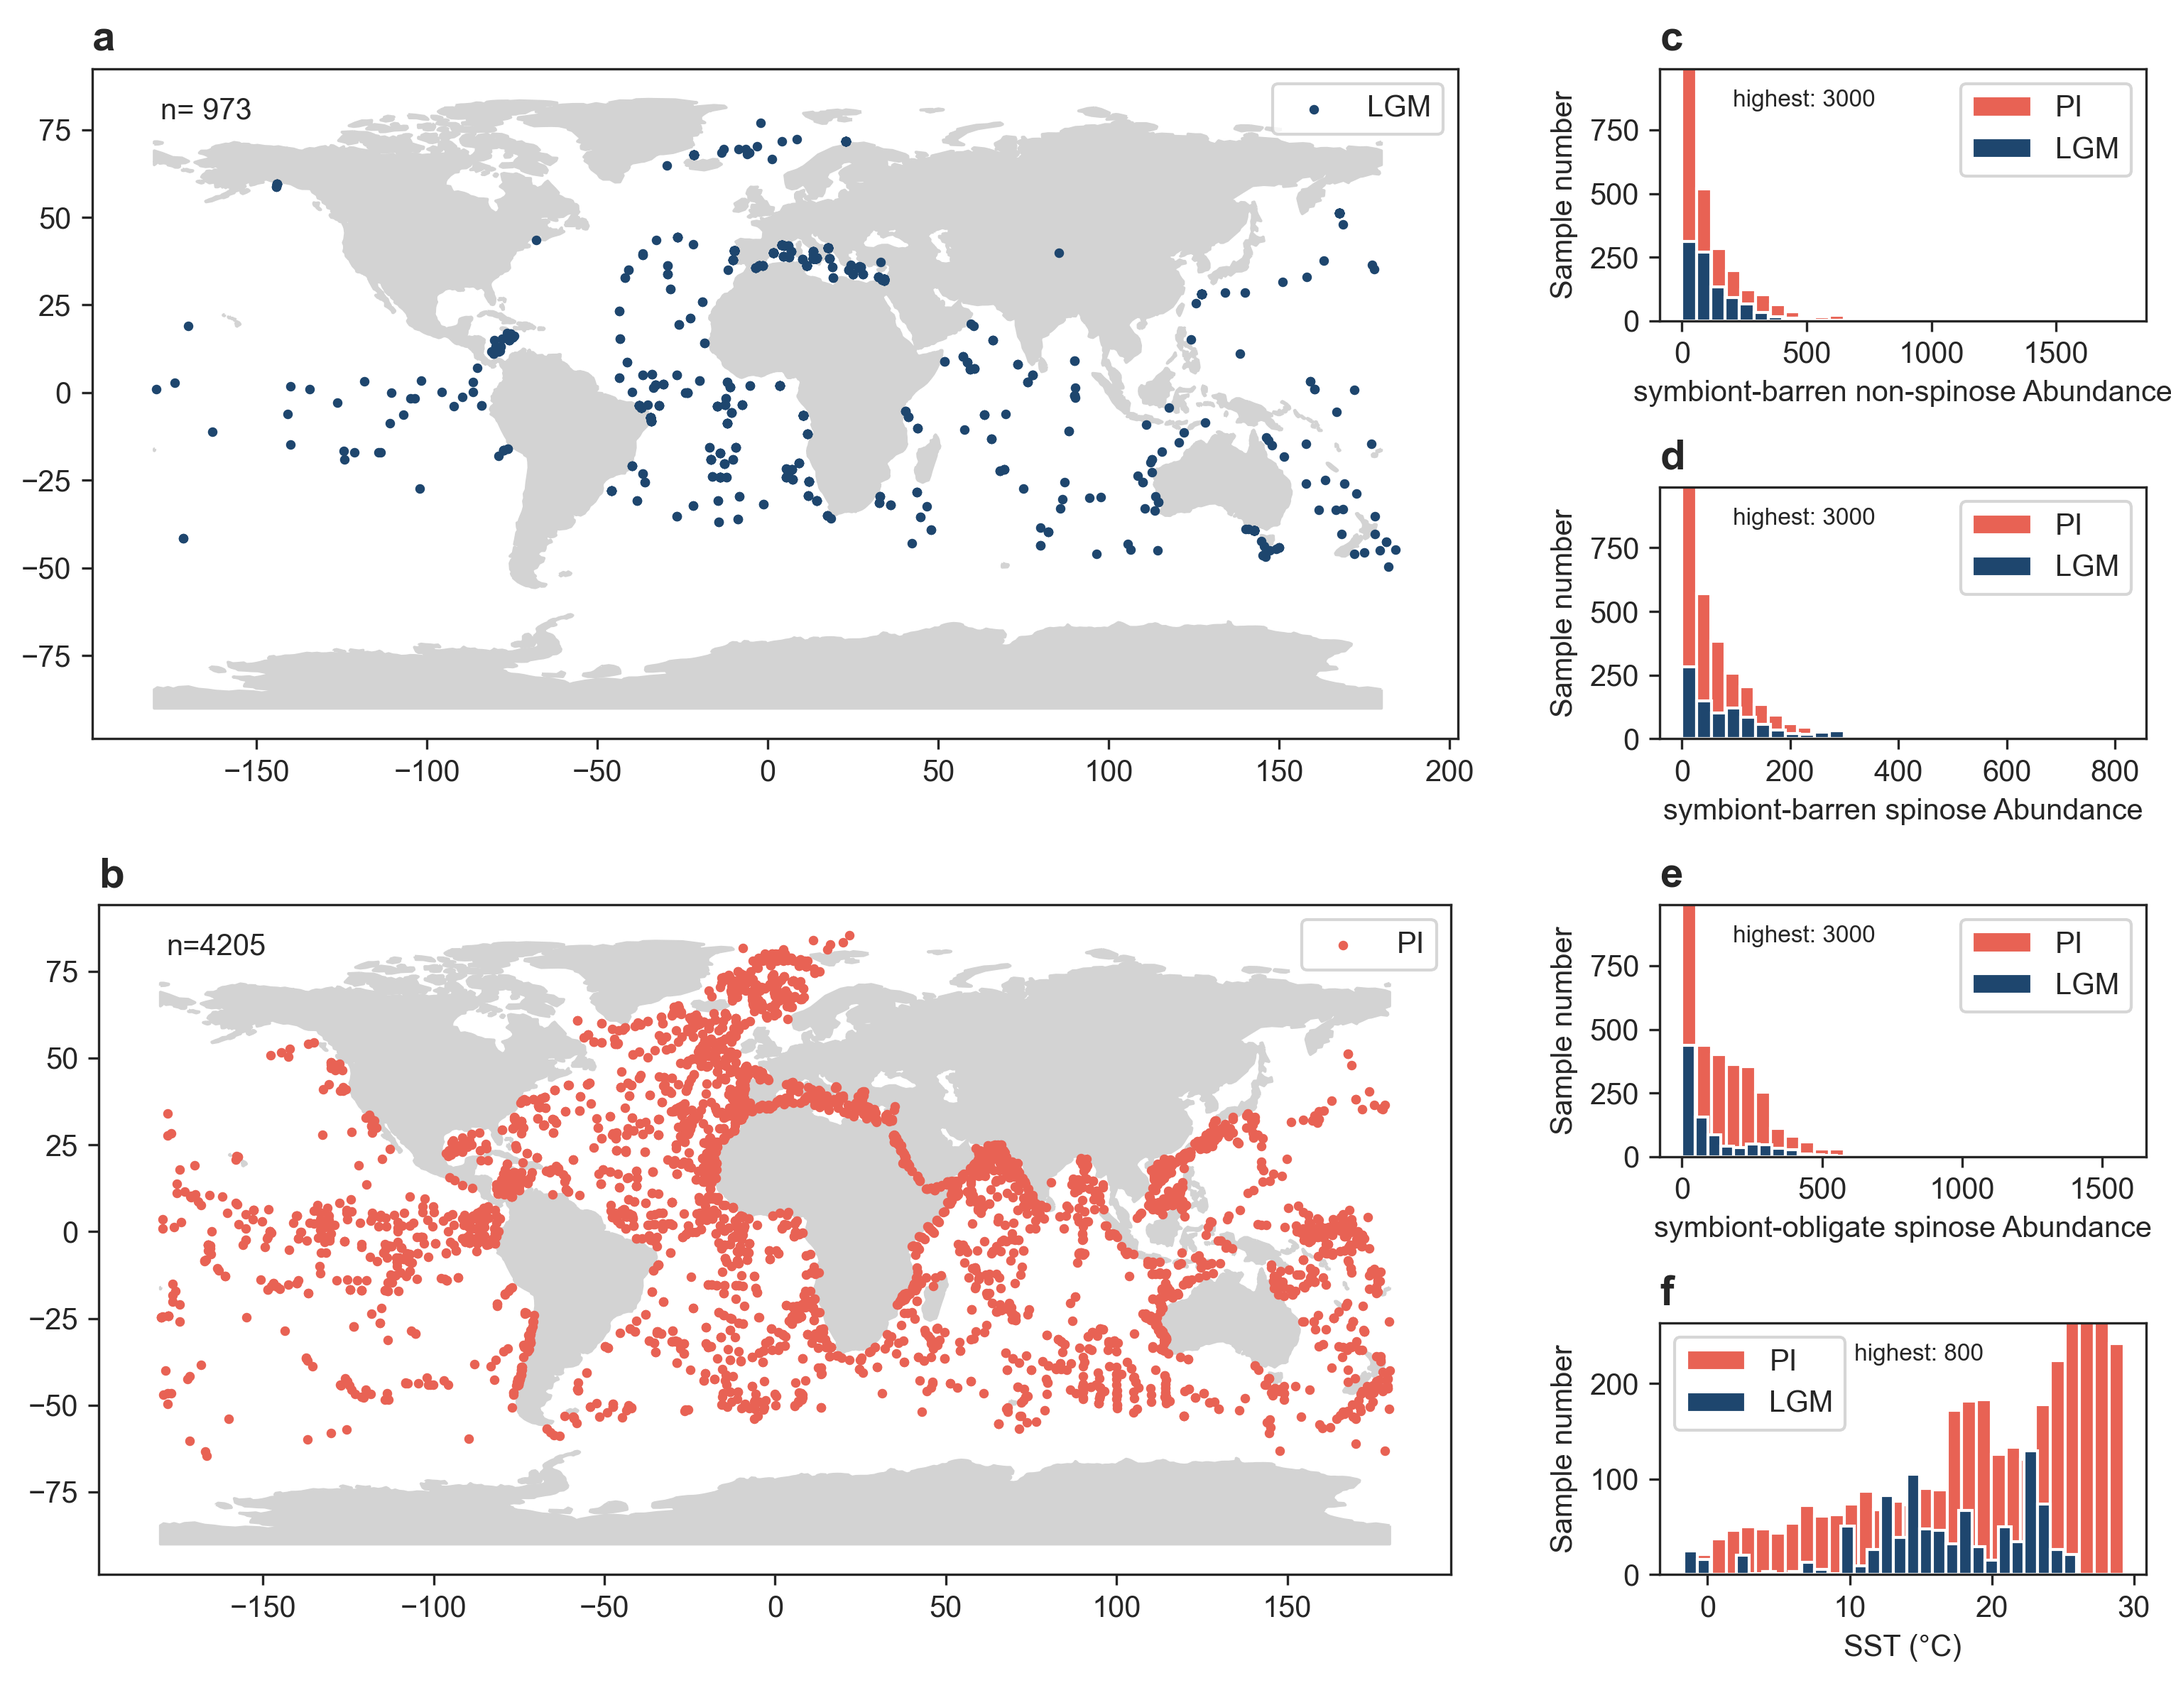
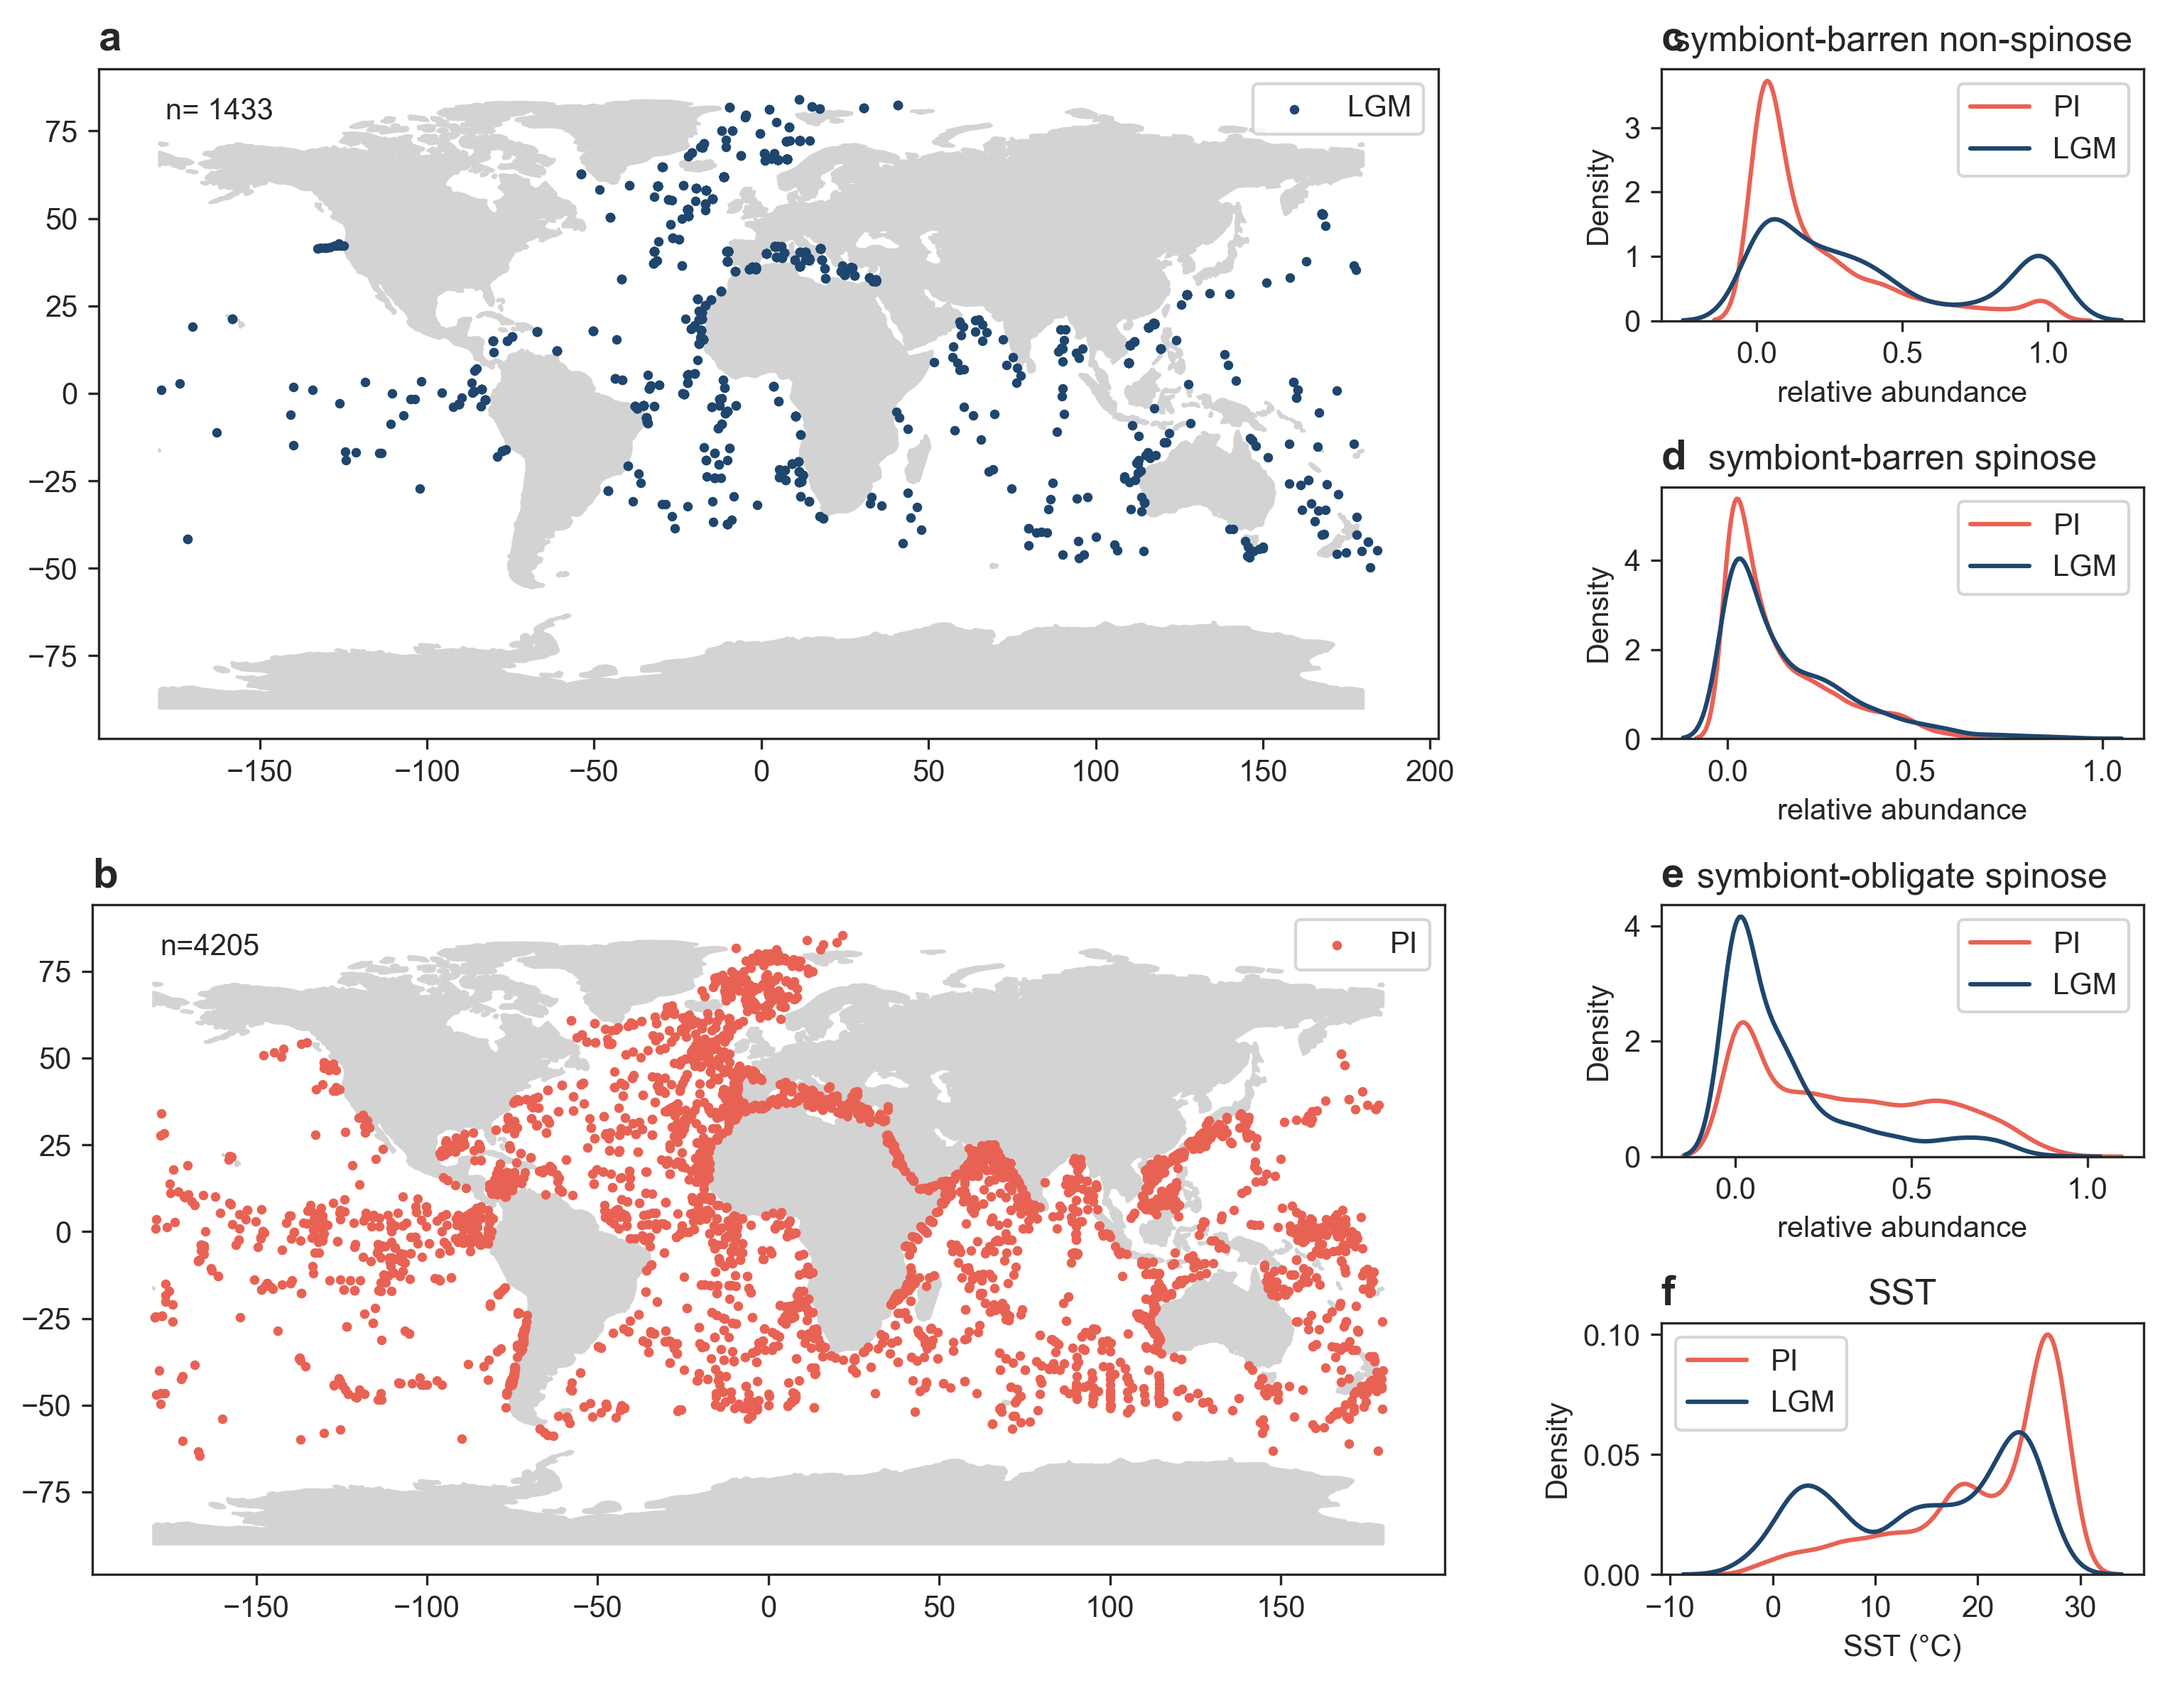
update sample_effort: just margo data

diff --git a/code/sample_efforts.py b/code/sample_efforts.py
@@ -11,11 +11,11 @@ def pd_to_gpd(data):
     gdf = gpd.GeoDataFrame(data, geometry=geometry, crs="EPSG:4326")
     return gdf
 
-
 def main():
     "plot sample number over 1 degree bin (x axis)"
-    pi = pd.read_csv("tidy/forcens_fg_a_wsst.csv")
-    lgm = pd.read_csv("tidy/lgm_fg_a_wsst.csv")
+    pi = pd.read_csv("tidy/forcens_fg_r_wsst.csv")
+    lgm = pd.read_csv("tidy/lgm_fg_r_wsst.csv")
+    lgm = lgm[lgm['Data_Source'] == 'margo']
 
     gdf_pi = pd_to_gpd(pi)
     gdf_lgm = pd_to_gpd(lgm)
@@ -65,25 +65,17 @@ def main():
             'SST']
 
     for i, col in enumerate(cols):
-        ax_hs[i].hist(pi[col], bins=30, label='PI', color=pi_color)
-        ax_hs[i].hist(lgm[col], bins=30, label='LGM', color=lgm_color)
-
-        ## get the location of highest bar of pi and normalise to 0-1
-        max_x = max(ax_hs[i].patches[:30], key=lambda p: p.get_height()).get_x()
-        max_y = max(ax_hs[i].get_yticks())
-
-        ax_hs[i].set_ylim(0, max_y*0.33)
-
-        ## add annotation for cutted off bars
-        annotation = 'highest: '+str(int(max_y))
+        #ax_hs[i].hist(pi[col], bins=30, label='PI', color=pi_color)
+        #ax_hs[i].hist(lgm[col], bins=30, label='LGM', color=lgm_color)
+        sns.kdeplot(pi[col], label='PI', ax=ax_hs[i], color=pi_color)
+        sns.kdeplot(lgm[col], label='LGM', ax=ax_hs[i], color=lgm_color)
 
         if col != 'SST':
-            ax_hs[i].set_xlabel(col+' Abundance')
-            ax_hs[i].annotate(annotation, xy=(0.15, 0.85), xycoords='axes fraction', fontsize=8)
+            ax_hs[i].set_xlabel('relative abundance')
         else:
             ax_hs[i].set_xlabel(col+' (°C)')
-            ax_hs[i].annotate(annotation, xy=(0.4, 0.85), xycoords='axes fraction', fontsize=8)
-        ax_hs[i].set_ylabel('Sample number')
+        ax_hs[i].set_title(col)
+        ax_hs[i].set_ylabel('Density')
         ax_hs[i].legend()
 
     # Customize the legends for the histogram subplots
